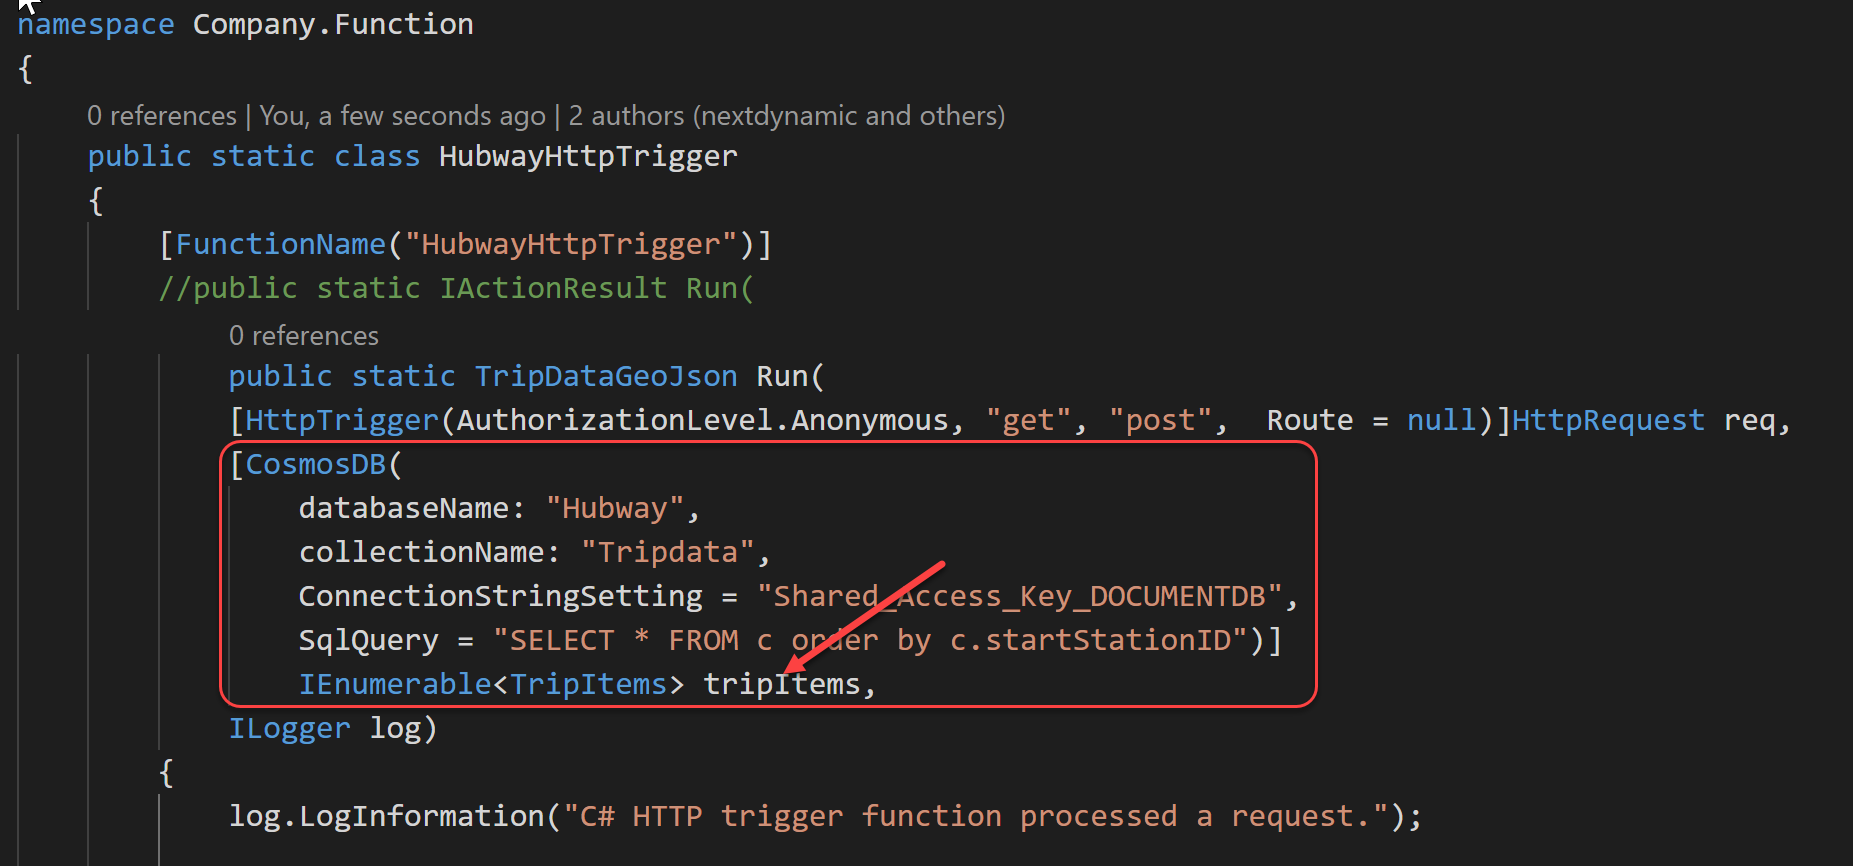
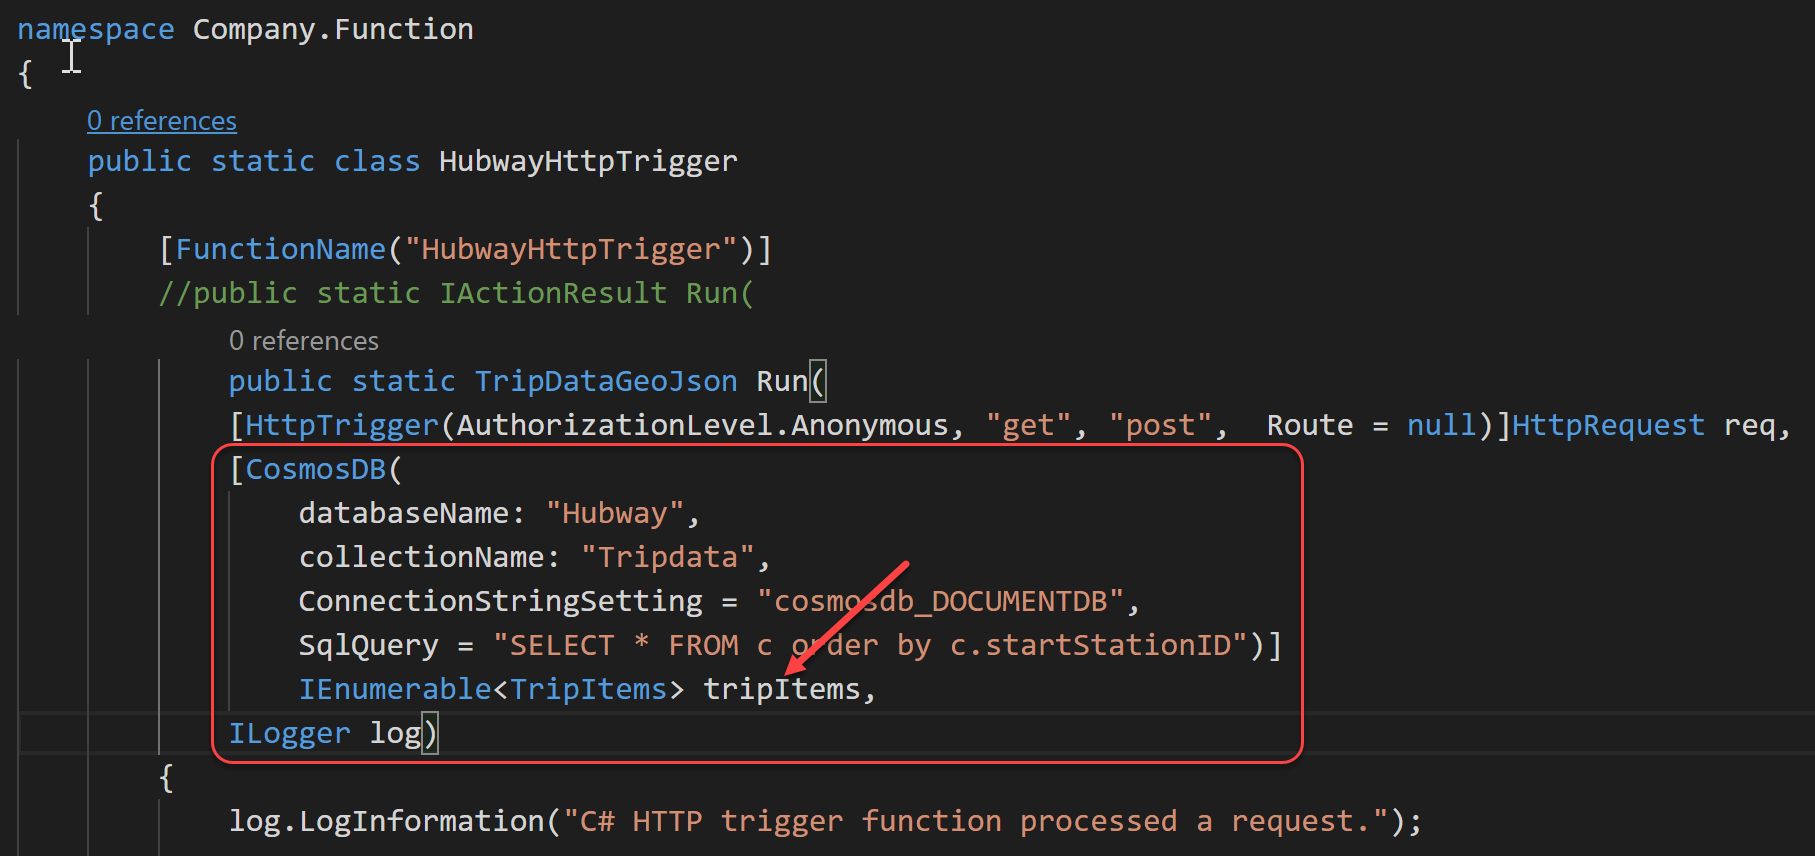
Updates

diff --git a/Lab 2 - Working with Hubway Data/Lab 2.3 - Create the Event Hub Trigger Function/README.md b/Lab 2 - Working with Hubway Data/Lab 2.3 - Create the Event Hub Trigger Function/README.md
@@ -126,6 +126,11 @@ We will be using Visual Studio Code and the Azure Functions Extension.
 
     ![Image](/images/lab-2.3-image18.png)
 
+## Confirm
+Inspect the local.settings.json file.
+Make sure the **Hubway_EVENTHUB** is mapped with connection.
+Make sure the **Hubway_EVENTHUB** is mapped with connection.
+
 ## Test the Function
 1. To execute the code, from **Visual Studio Code**, press **F5**.
 2. Telnet into the Raspberry Pi using SSH and login.
@@ -174,6 +179,19 @@ We will be using Visual Studio Code and the Azure Functions Extension.
     > Don't forget to add the comma.
 
     ![Image](/images/lab-2.3-image25.png)
+
+?. 🚨 Make note of the CosmosDB connection string. What is the binding called?
+GO out to Azure Portal
+Grag the Connection STring from CosmosDB, Keys, RootManageSharedAccessKey.
+Copy Primary Connection String from the Read-write keys tab.
+From VSC, open filed local.settings.json.
+Insert it.
+
+i.e.
+cosmosDB_DOCUMENTDB = "BLAH BLAH".
+
+Randy = Fix screen shot lab-2.7.1-image13.png.
+
 
 9. From Visual Studio Code, press **Cntl-Shift-`** to open a new Terminal window
 10. Press **Enter** to get the prompt.

diff --git a/Lab 2 - Working with Hubway Data/Lab 2.7 - Working with Azure Maps/Lab 2.7.1 - Function Trigger, HTTP Endpoint/README.md b/Lab 2 - Working with Hubway Data/Lab 2.7 - Working with Azure Maps/Lab 2.7.1 - Function Trigger, HTTP Endpoint/README.md
@@ -71,17 +71,8 @@ Scroll down and notice the following things, the **Return value** and **Input bi
 
 ![Image](/images/lab-2.7.1-image13.png) 
 
-🚨 Randy/Tim needs to update step 11 with the correct Lab.
-
-11. Replace the ConnectionStringSetting = "**Shared_Access_Key_DOCUMENTDB**" with your CosmosDB connection string you created in **Lab 2.???**.
-
-    > i.e. **<**LastName**>-pi-day-CosmosDB_DOCUMENTDB**.
-
-<!-- ![Image](/images/lab-2.7.1-image14.png)  -->
-![Image](/images/lab-2.7.1-image15.png) 
-
-12. Press **Ctrl+S** to save file.
-13. Review the code.
+11. Press **Ctrl+S** to save file.
+12. Review the code.
 
 ## Deploy the Function App
 
